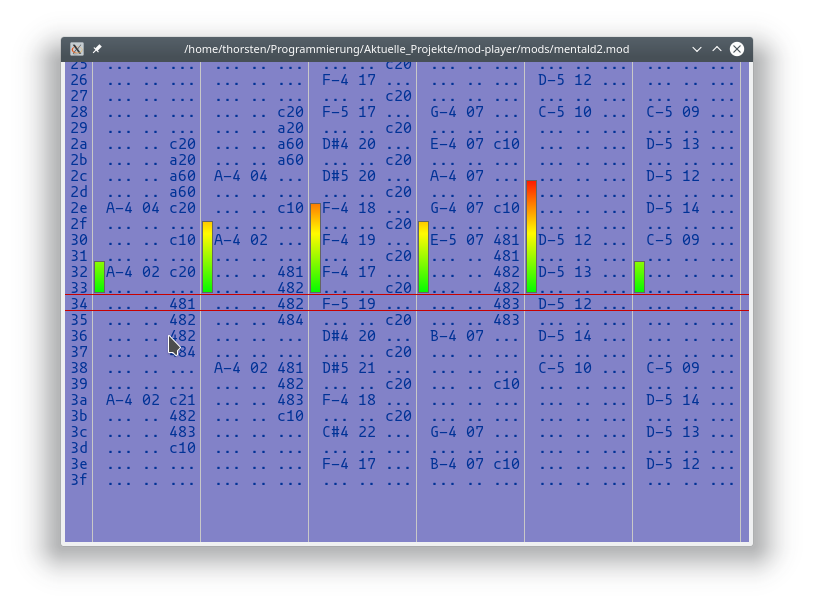
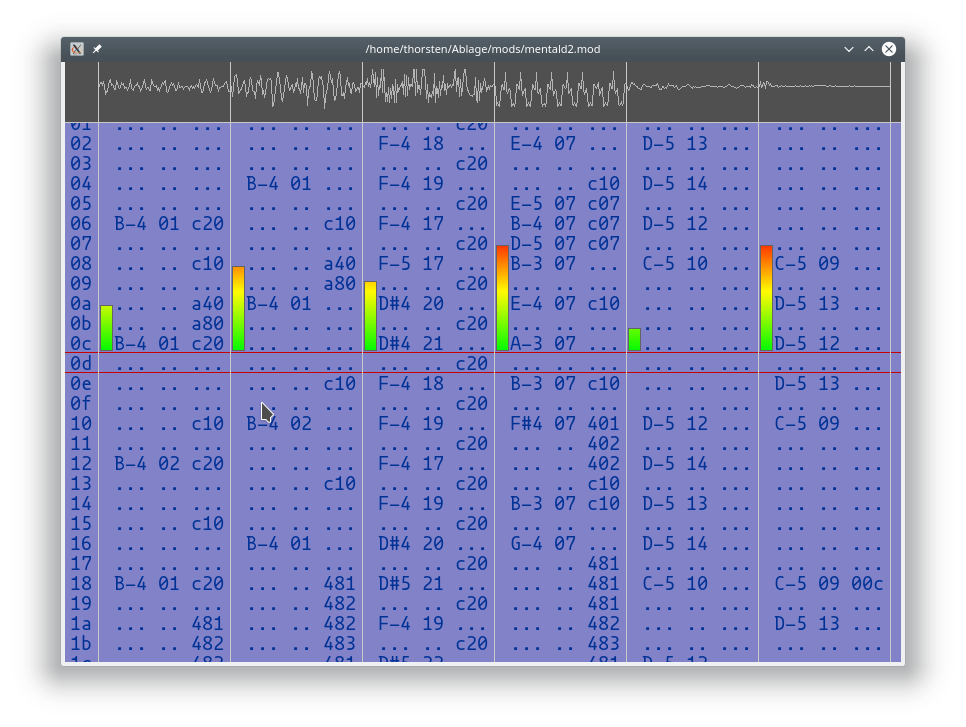
final scope

Changed region(s): [[0.0307, 0.0297, 0.9521, 0.9489]]

diff --git a/src/main.cpp b/src/main.cpp
@@ -134,7 +134,7 @@ int main(int argc, char *argv[])
     SDL_Renderer *ren = SDL_CreateRenderer(win, -1, SDL_RENDERER_ACCELERATED | SDL_RENDERER_PRESENTVSYNC) ;
     SDL_Texture *tex = SDL_CreateTexture(ren, SDL_PIXELFORMAT_RGBA8888, SDL_TEXTUREACCESS_TARGET, screensize_w, screensize_h);
 
-    LevelMeterClass level_meter(ren,font_w+2,120);
+    LevelMeterClass level_meter(ren,font_w+2,font_h * 6);
 
     SDL_Color color_fg = {0,50,150,0};
     //SDL_Color color_fg = {255,255,255,0};
@@ -257,12 +257,12 @@ int main(int argc, char *argv[])
             level_meter.Draw(3*font_w+2 + i*12*font_w, screensize_h/2-font_h/2, vol);
         }
 
-        // Scope Background
+        // Scope Background and size
         rec1.x = rec1.y = 0;
         rec1.w = screensize_w;
-        rec1.h = 80;
+        rec1.h = font_h * 3;
 
-        SDL_SetRenderDrawColor(ren,0,0,50,0);
+        SDL_SetRenderDrawColor(ren,80,80,80,0);
         SDL_RenderFillRect(ren,&rec1);
 
         // VLines
@@ -272,12 +272,15 @@ int main(int argc, char *argv[])
             int x = font_w * 3 + i*font_w * 12;
             SDL_RenderDrawLine(ren,x,0,x,screensize_h);
         }
+        // HLINE
+        SDL_RenderDrawLine(ren,0,rec1.h,screensize_w,rec1.h);
 
         // Scopes
 
         int channels = mod->GetModChannelCount();
         int scope_w = font_w * 12 - 2;
-        int scope_y = 40;
+        int scope_h = rec1.h * 0.8;
+        int scope_y = scope_h / 2;
 
         int scope_x1[channels];
         int scope_y1[channels];
@@ -290,7 +293,7 @@ int main(int argc, char *argv[])
             scope_y1[i] = scope_y;
         }
 
-        SDL_SetRenderDrawColor(ren,130,130,130,0);
+        SDL_SetRenderDrawColor(ren,180,180,180,0);
 
         float t1 = 1.0 / scope_w;
 
@@ -300,7 +303,7 @@ int main(int argc, char *argv[])
             for(int chn=0; chn < channels; chn++)
             {
                 scope_x2[chn]++;
-                scope_y2[chn] = scope_buffer[idx] * 60 + scope_y ;
+                scope_y2[chn] = scope_buffer[idx] * scope_h + scope_y ;
                 SDL_RenderDrawLine(ren,scope_x1[chn],scope_y1[chn],scope_x2[chn],scope_y2[chn]);
                 scope_x1[chn] = scope_x2[chn];
                 scope_y1[chn] = scope_y2[chn];
